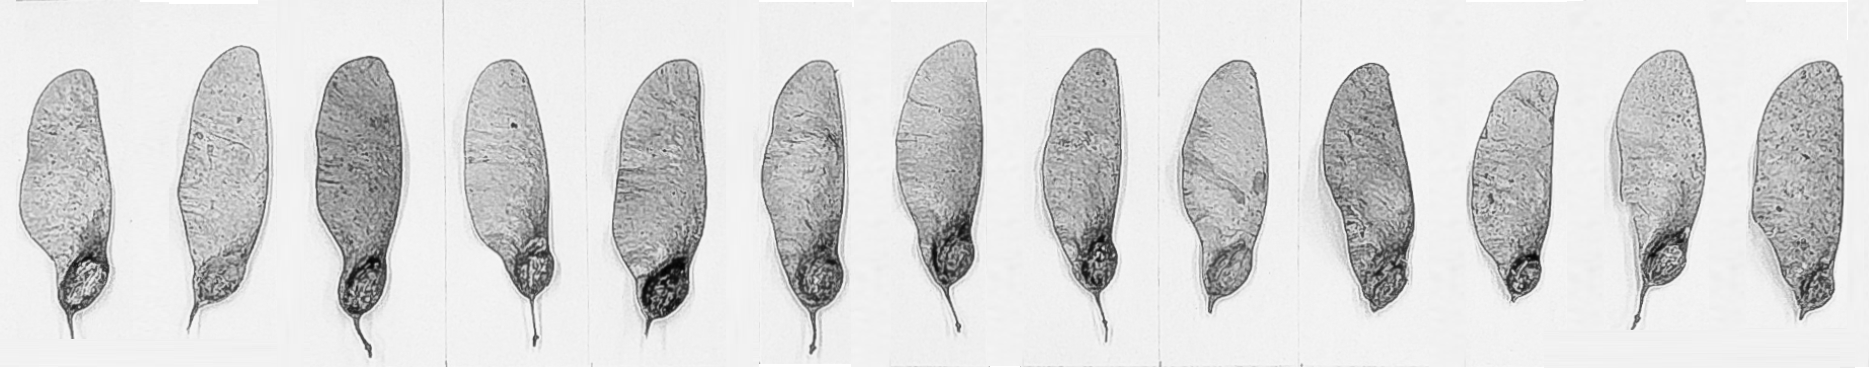
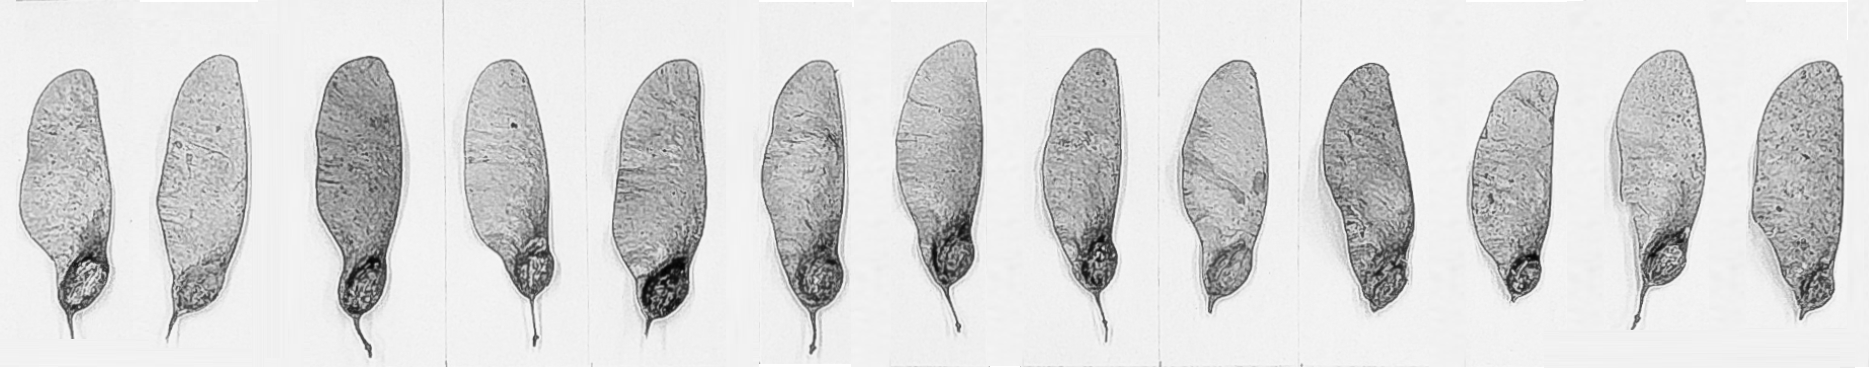
Property Analysis Debuging
Tweaked rectangle generation parameters to optimally slice the image and conduct analysis

Changed region(s): [[0.0621, 0.1196, 0.1552, 0.8967]]

diff --git a/propertyAnalysis.py b/propertyAnalysis.py
@@ -60,7 +60,7 @@ dataSet1 = ['Masses.csv',
 dataSet2 = ['fastMass.csv',
             'newLayout.png',
             1.68/127,
-            140,
+            143,
             360,
             13,
             1,
